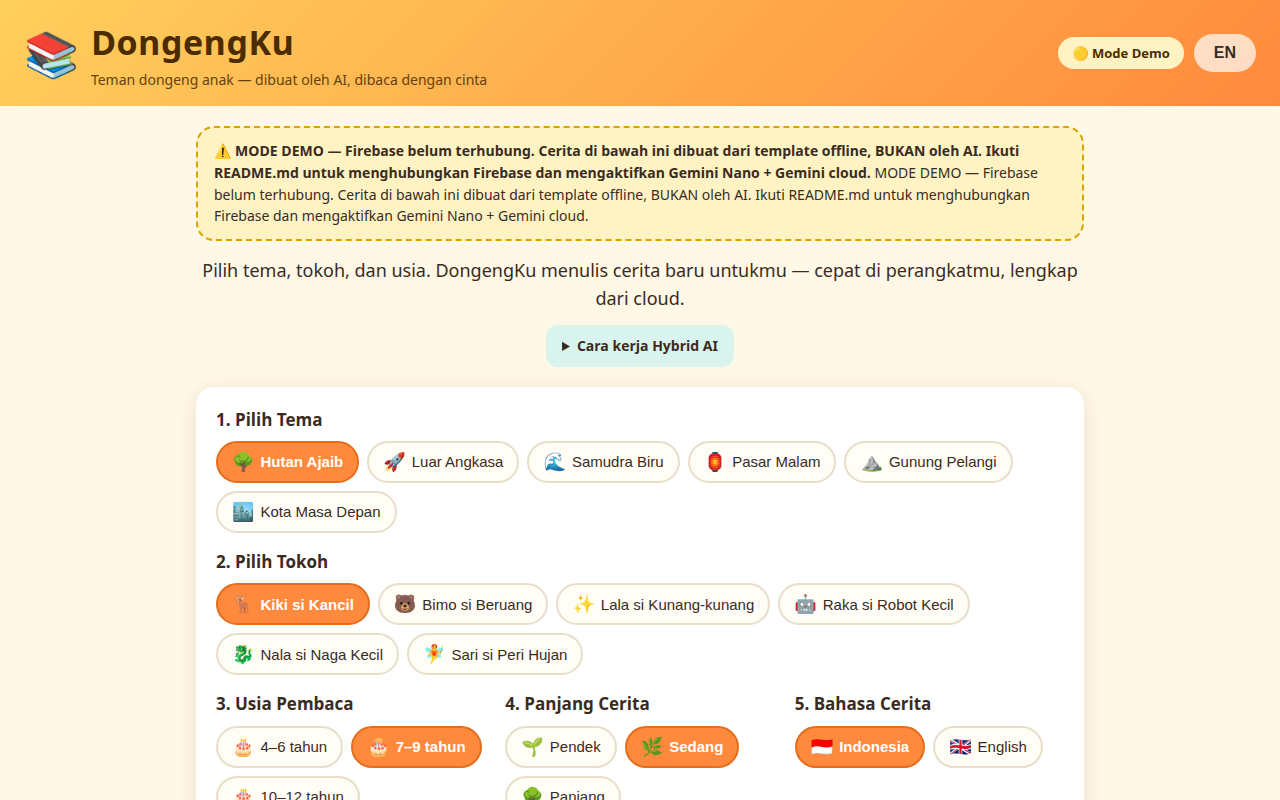
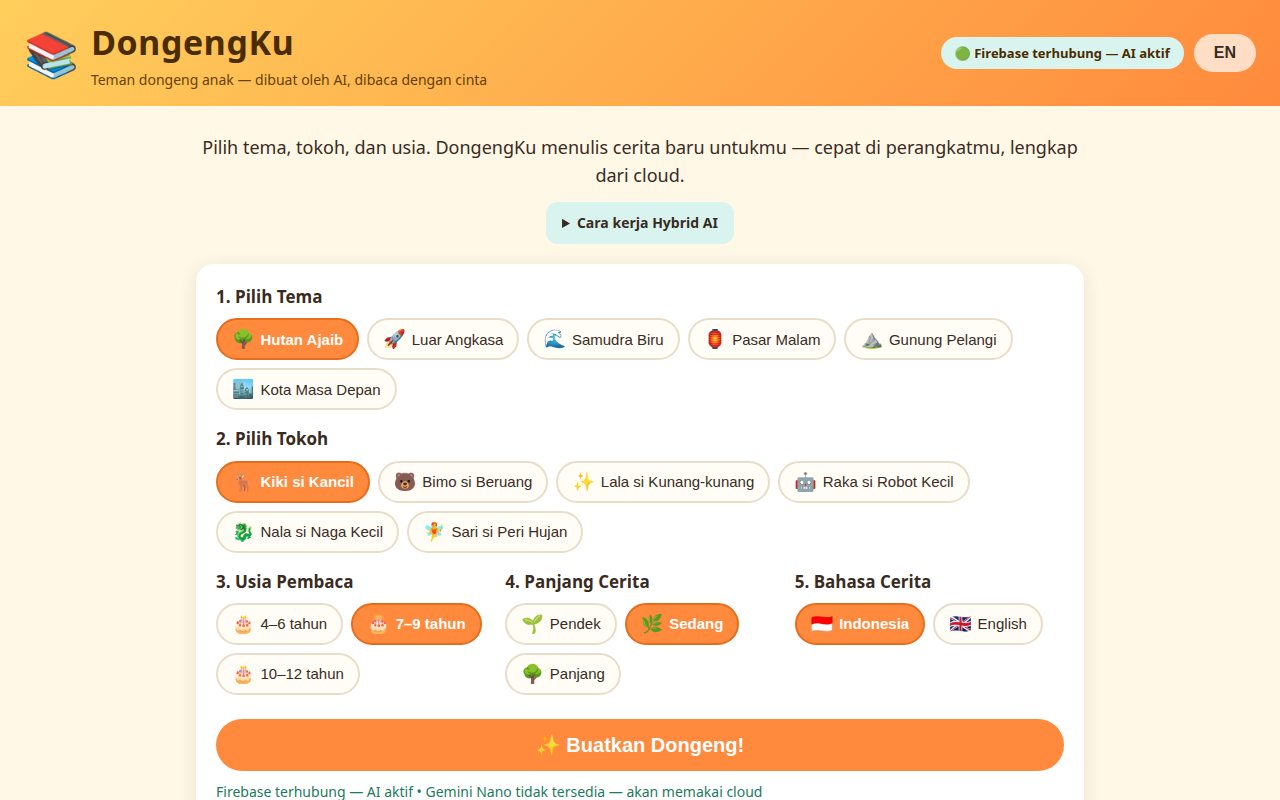
Embed real Firebase config (dongengku-97df9) in firebase-config.js
- Falls back to the real project so builds work anywhere without .env
  (web API keys are public client identifiers; security comes from
  Firestore rules + App Check)
- Regenerated demo screenshot

Changed region(s): [[0.1562, 0.1562, 0.8438, 1.0], [0.7188, 0.0312, 0.9375, 0.0938]]

diff --git a/src/firebase-config.js b/src/firebase-config.js
@@ -1,14 +1,14 @@
 /**
- * DongengKu — Firebase config (PLACEHOLDER).
+ * DongengKu — Firebase config.
  *
- * This file intentionally contains NO real credentials. Paste your web
- * app's config here after creating a Firebase project (see README.md
- * "Firebase console steps"), or set the same values as Vite env vars in
- * a `.env` file (see `.env.example`).
+ * Real project dongengku-97df9 is embedded as the fallback below (wired
+ * 2026-11-23). Firebase web API keys are public client identifiers, not
+ * secrets — the key ships inside the app bundle to every visitor anyway;
+ * security comes from Firestore rules + App Check, not from hiding it.
+ * Values in a local `.env` (VITE_FIREBASE_*) still take precedence.
  *
- * While the placeholder values below are present, the app runs in
- * DEMO MODE (offline template stories, local favourites) and makes no
- * Firebase calls.
+ * With a real config present, the app runs in LIVE MODE (Firebase AI Logic
+ * stories, Firestore favourites). Without one it falls back to DEMO MODE.
  */
 
 const env = import.meta.env;
